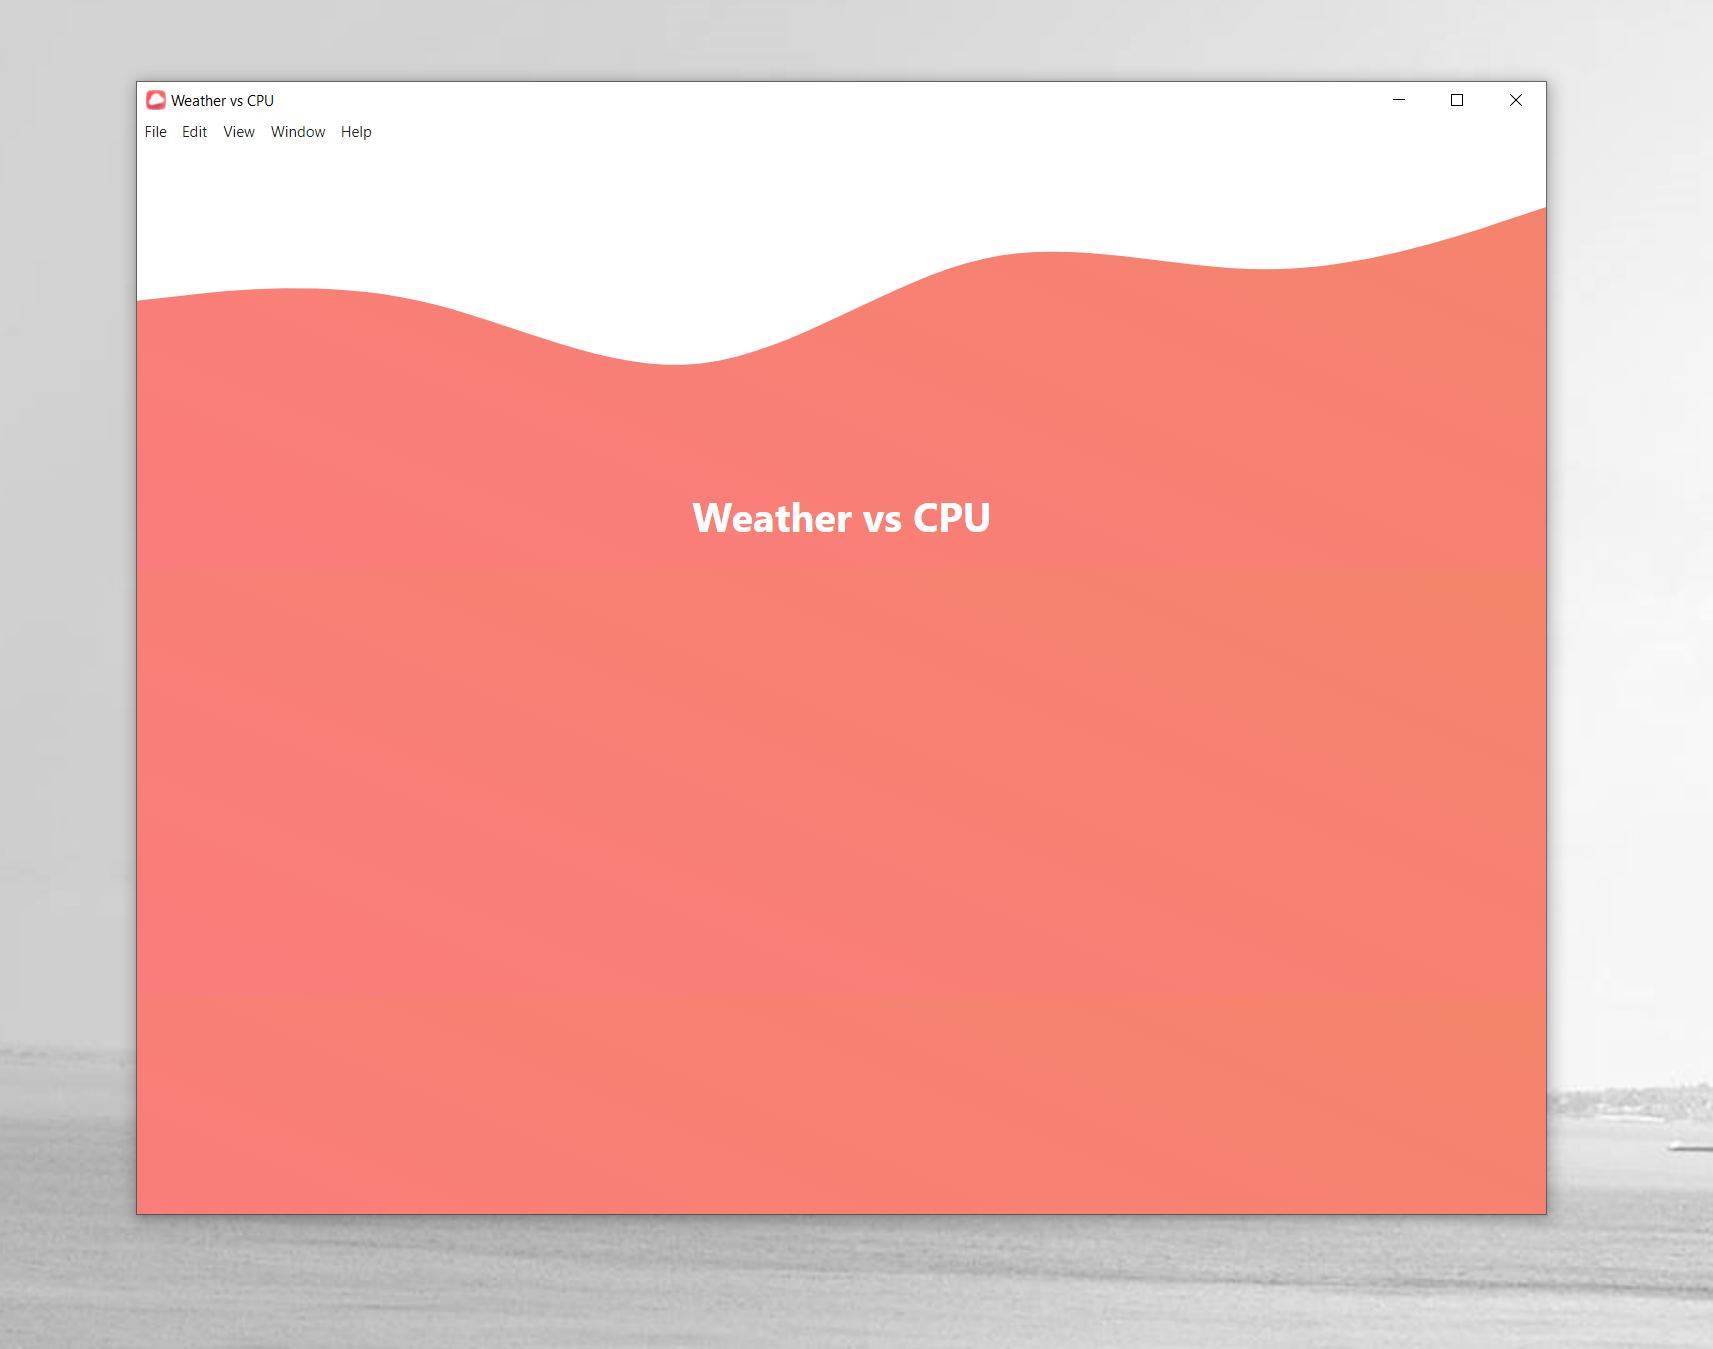
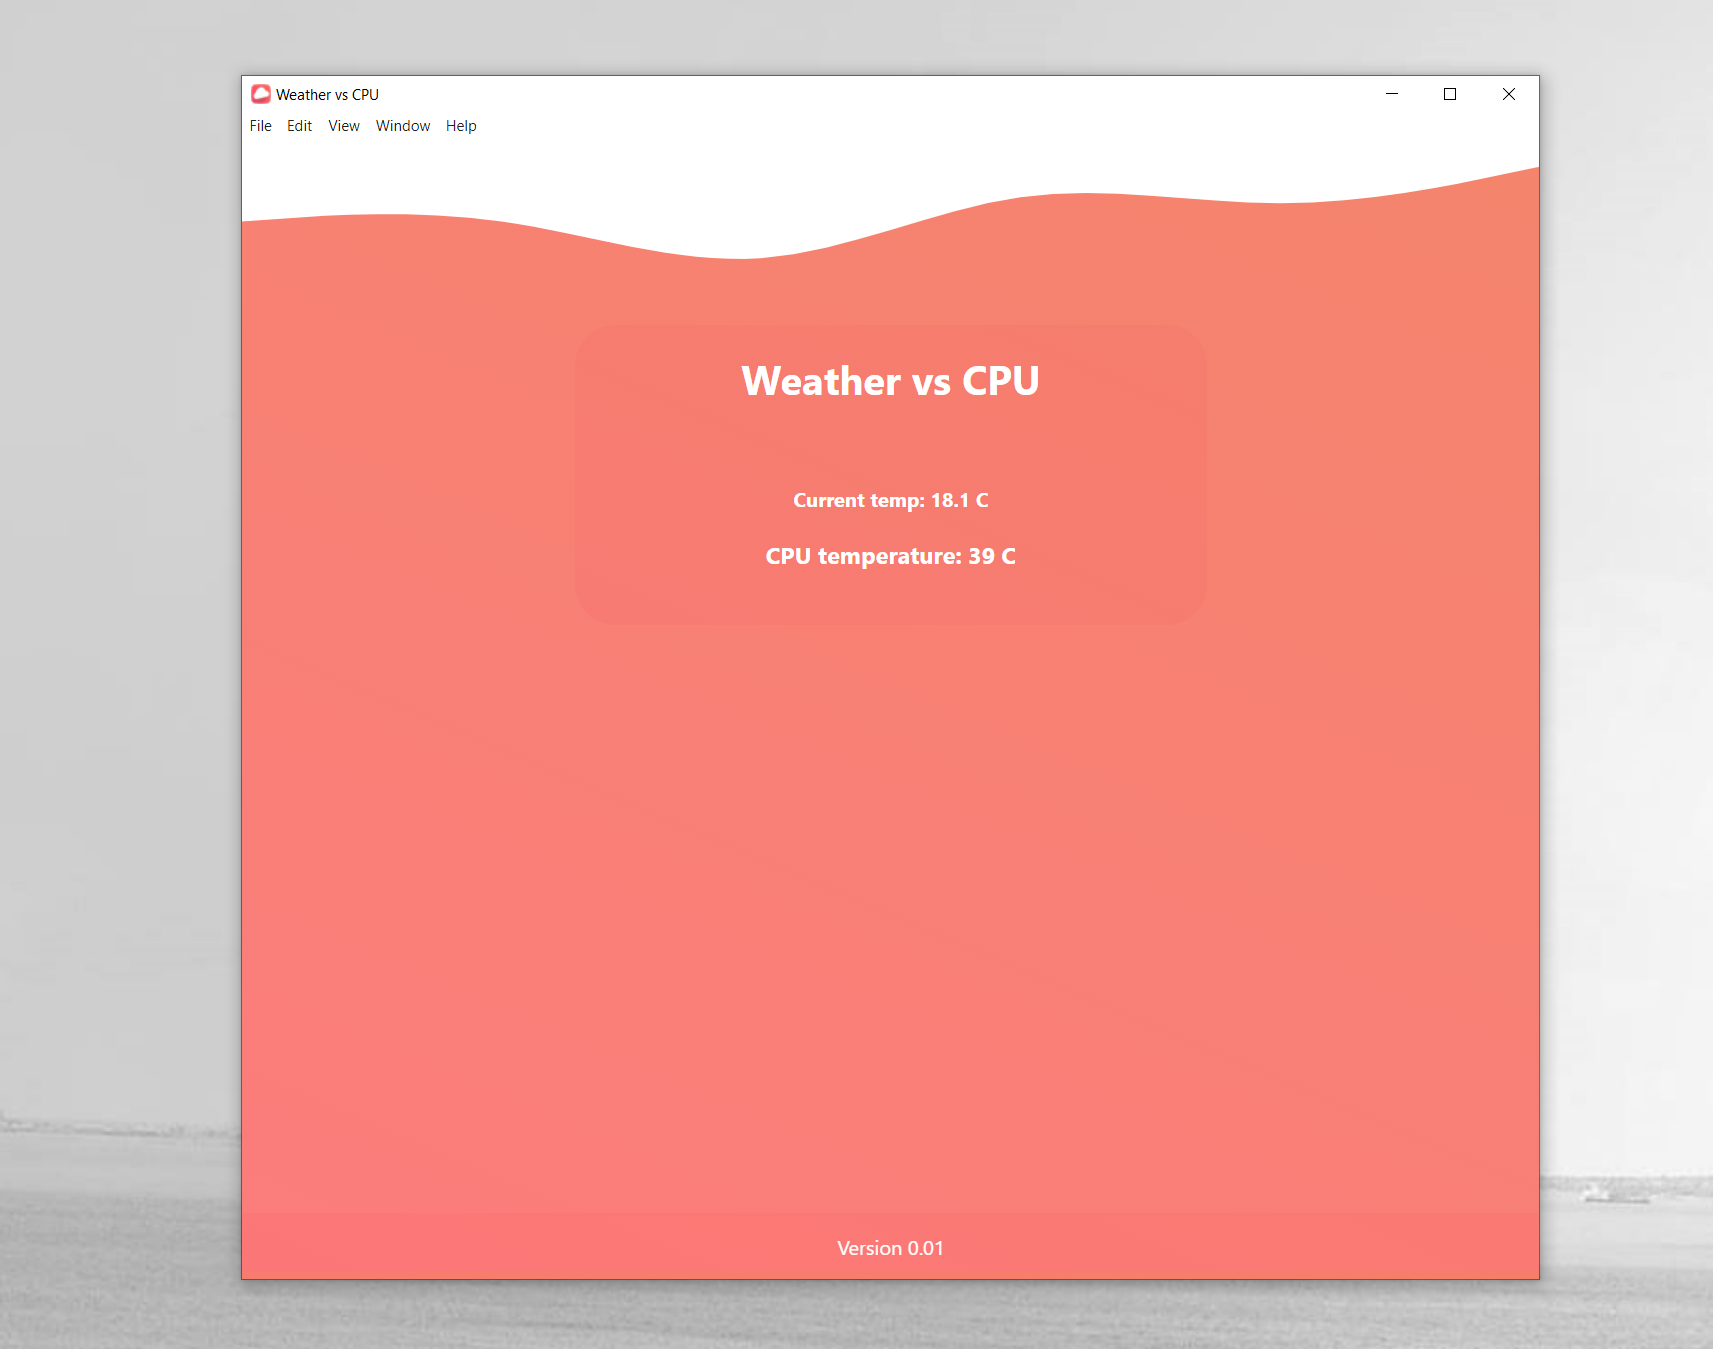
Added App Grid

Changed region(s): [[0.0619, 0.0311, 1.0, 1.0], [0.4022, 0.3425, 0.5879, 0.4359]]

diff --git a/main.js b/main.js
@@ -1,15 +1,12 @@
 // Modules to control application life and create native browser window
 const { app, BrowserWindow } = require('electron');
 
-// console.log('boo') // I don't know what linux is.
-
-
 function createWindow() {
   // Create the browser window.
   const mainWindow = new BrowserWindow({
     width: 800,
     height: 600,
-    icon: 'public/favicon.ico' // icon for windows
+    icon: 'public/favicon.ico', // icon for windows
     //for mac use .icns
   });
 

diff --git a/src/App.js b/src/App.js
@@ -1,15 +1,14 @@
-
-import './App.css';
+import classes from './App.module.css';
+import Card from './components/UI/Card';
 import Waves from './components/UI/Waves';
-
+import Footer from './components/Footer';
 
 function App() {
-
-
   return (
-    <div className="App">
-      <Waves/>
-     <h1>Weather vs CPU</h1>
+    <div className={classes.App}>
+      <Waves />
+      <Card />
+      <Footer/>
     </div>
   );
 }

diff --git a/src/components/UI/Card.js b/src/components/UI/Card.js
@@ -1,0 +1,19 @@
+import React from 'react';
+import classes from './Card.module.css';
+
+const Card = () => {
+  return (
+    <div className={classes.Card}>
+      <div className={classes.CardShape}>
+        <h1>Weather vs CPU</h1>
+        <br></br>
+        <div>
+          <h4>Current temp: 18.1 C</h4>
+          <h3>CPU temperature: 39 C</h3>
+        </div>
+      </div>
+    </div>
+  );
+};
+
+export default Card;

diff --git a/src/components/UI/Card.module.css b/src/components/UI/Card.module.css
@@ -1,0 +1,17 @@
+.Card {
+    display: grid;
+    grid-gap: 1px;
+    grid-template-columns: auto auto auto;
+    grid-template-rows: 3em 15em auto 25em auto;
+    height: 100%;
+}
+
+
+.CardShape {
+    grid-column-start: 2;
+    grid-row-start: 2;
+    background-color: rgba(248, 27, 56, 0.048);
+    height: 100%;
+    border-radius: 2em
+
+}

diff --git a/src/components/UI/Waves.js b/src/components/UI/Waves.js
@@ -3,11 +3,11 @@ import wave from '../../assets/wave.svg';
 
 
 const Waves = () => {
-    return (
-        <div>
-              <img src={wave} alt="wave" />
-        </div>
-    );
+  return (
+    <>
+      <img src={wave} alt="wave" />
+    </>
+  );
 };
 
 export default Waves;

diff --git a/src/index.css b/src/index.css
@@ -5,8 +5,8 @@ body {
     sans-serif;
   -webkit-font-smoothing: antialiased;
   -moz-osx-font-smoothing: grayscale;
-  background: rgb(244,132,108);
   background: linear-gradient(203deg, rgba(244,132,108,1) 0%, rgba(251,124,124,1) 100%);
+  height: 100vh;
 }
 
 code {

diff --git a/src/components/Footer.js b/src/components/Footer.js
@@ -1,0 +1,10 @@
+import React from 'react';
+import classes from './Footer.module.css'
+
+const Foot = () => {
+    return (
+        <div className={classes.Foot} ><p>Version 0.01</p></div>
+    );
+};
+
+export default Foot;

diff --git a/src/components/Footer.module.css b/src/components/Footer.module.css
@@ -1,0 +1,9 @@
+.Foot {
+  position: fixed;
+  left: 0;
+  bottom: 0;
+  width: 100%;
+  background-color: rgba(255, 88, 88, 0.116);
+  color: white;
+  text-align: center;
+}

diff --git a/src/App.module.css b/src/App.module.css
@@ -1,0 +1,5 @@
+.App {
+  text-align: center;
+  color: white;
+  margin-top: -0.4em;
+}

diff --git a/README.md b/README.md
@@ -14,14 +14,15 @@
 - [x] Initialised basic dependencies 
 - [x] React with electron integrated
 - [x] Added UI waves
-- [x] Icon
+- [x] Icon designed and added
+- [x] Added application grid and some dummy data
 
 
 * 
 - [-] Obtain API Keys, Store and Secure
-- [-] Fetch data from Api for weather temperature  (axios)
+- [-] Fetch data from API for weather temperature  (axios)
 - [-] Fetch temp from API, (useEffect hook)
-- [-] Get my location data, feed to api
+- [-] Get my location data, feed to API
 - [-] Access OS Cpu data, (maybe with node.js or library)  
 - [-] Optimise for different OS (process.platform darwin win32 linux)
 - [-] Load and Display data side by side for (visual representation)
